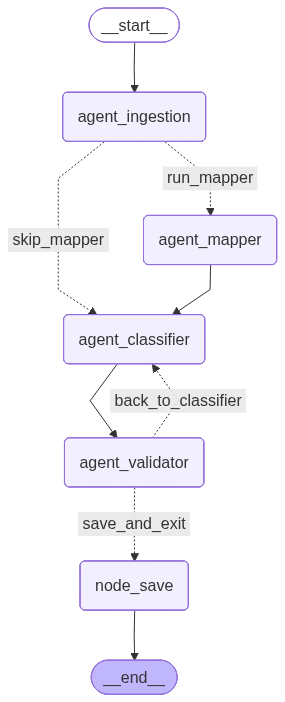
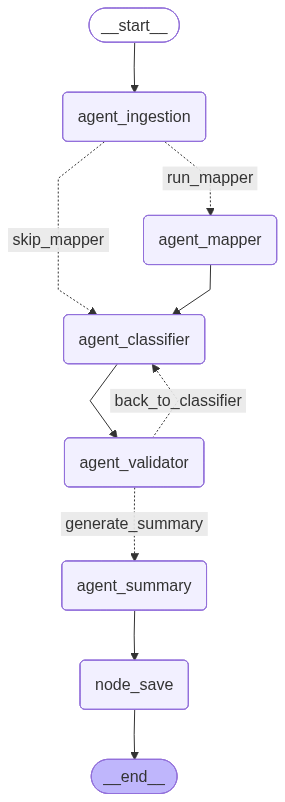
(feat): Added a summary agent that provides overall sumamry for the user plan

diff --git a/agents/summary_agent.py b/agents/summary_agent.py
@@ -1,0 +1,83 @@
+import os
+from anthropic import Anthropic
+from state.graph_state import AgenticState
+
+def summary_agent_node(state: AgenticState):
+    print(f"\n=== [Agent 5: Summary Agent] Generating Comprehensive Plan Summary ===")
+    client = Anthropic(api_key=os.getenv("CLAUDE_API_KEY"))
+    
+    valid_pages = state.get("valid_pages", [])
+    if not valid_pages:
+        print("No valid blueprint images found to summarize.")
+        return {"plan_summary": "No blueprint images available for summary."}
+    
+    page_summaries = []
+    
+    prompt = """You are an expert architectural plan reviewer and construction estimator. 
+Analyze this blueprint page/drawing image and write an exhaustive, highly detailed technical description of every single element, note, and layout configuration visible.
+
+Provide a meticulous breakdown covering:
+1. Drawing Type & Orientation: (e.g., Floor Plan, Foundation Plan, Exterior Elevation, Framing Details) along with scale/compass indicators if visible.
+2. Spatial Layout & Dimensions: Room-by-room walkthrough, structural spans, exact dimensions, thickness of walls, clearance heights, and circulation pathways.
+3. Features & Openings: Comprehensive description of doors, windows, millwork, built-ins, partitions, and specialized assemblies.
+4. General Notes & Callouts: Incorporate text schedules, legend items, or structural callouts present directly on the sheet.
+
+🚨 CRITICAL CONSTRAINT: DO NOT assign, use, or reference any CSI MasterFormat division codes (e.g., '09 30 13' or 'Division 09'). Focus entirely on a narrative, physical, and architectural transcription of what is shown.
+
+Write your response in clear, professional, un-abbreviated plain text paragraphs with clear headings."""
+
+    for page in valid_pages:
+        page_no = page["page_no"]
+        print(f"Extracting all detailed plan data from sheet {page_no}...")
+        try:
+            response = client.messages.create(
+                model="claude-sonnet-4-6",
+                max_tokens=3500, 
+                temperature=0.1,  
+                system="You are a precise architectural description engine. Write comprehensive, fully expanded technical descriptions of construction drawings. Do not summarize or skip small details—write out everything observed. Start directly with your findings.",
+                messages=[
+                    {
+                        "role": "user",
+                        "content": [
+                            {
+                                "type": "image",
+                                "source": {
+                                    "type": "base64",
+                                    "media_type": "image/png",
+                                    "data": page['image_b64']
+                                }
+                            },
+                            {
+                                "type": "text",
+                                "text": prompt
+                            }
+                        ],
+                    }
+                ],
+            )
+            
+            page_text = response.content[0].text.strip()
+            page_header = f"=================================================================\n" \
+                          f" SHEET / PAGE {page_no} DETAILED REPORT\n" \
+                          f"=================================================================\n"
+            page_summaries.append(f"{page_header}{page_text}")
+            
+        except Exception as e:
+            print(f"[Summary Agent Error] Failed to process page {page_no}: {e}")
+            page_summaries.append(f"SHEET / PAGE {page_no}\n[Error compiling data for this blueprint page]")
+
+    final_text_content = "\n\n\n".join(page_summaries)
+    
+    pdf_name = os.path.splitext(os.path.basename(state["pdf_path"]))[0]
+    txt_output_path = os.path.join(state["output_base"], "data", f"{pdf_name}_plan_summary.txt")
+    os.makedirs(os.path.dirname(txt_output_path), exist_ok=True)
+    
+    with open(txt_output_path, "w", encoding="utf-8") as f:
+        f.write(f"DETAILED CONSTRUCTION PLAN SUMMARY REPORT\n")
+        f.write(f"Source Document: {pdf_name}.pdf\n")
+        f.write(f"=================================================================\n\n")
+        f.write(final_text_content)
+        
+    print(f"Exhaustive architectural summary stored in text file: {txt_output_path}")
+    
+    return {"plan_summary": final_text_content}

diff --git a/main.py b/main.py
@@ -11,6 +11,7 @@ from agents.ingestion_agent import ingestion_agent_node
 from agents.blueprint_mapper import blueprint_mapper_node
 from agents.csi_classifier import csi_classifier_node
 from agents.validator_agent import validator_agent_node
+from agents.summary_agent import summary_agent_node
 
 load_dotenv(override=True)
 
@@ -34,7 +35,9 @@ def evaluation_router(state: AgenticState) -> Literal["back_to_classifier", "sav
     if state.get("error_log") and state.get("retry_count", 0) < 3:
         print(f"Routing back to Agent 3 (CSI Classifier) for correction attempt #{state.get('retry_count', 0)}")
         return "back_to_classifier"
-    return "save_and_exit"
+    
+    print("Validation passed. Routing to Agent 5 (Summary Agent)...")
+    return "generate_summary"
 
 
 def save_results_node(state: AgenticState):
@@ -57,6 +60,7 @@ workflow.add_node("agent_ingestion", ingestion_agent_node)
 workflow.add_node("agent_mapper", blueprint_mapper_node)
 workflow.add_node("agent_classifier", csi_classifier_node)
 workflow.add_node("agent_validator", validator_agent_node)
+workflow.add_node("agent_summary", summary_agent_node)
 workflow.add_node("node_save", save_results_node)
 
 workflow.set_entry_point("agent_ingestion")
@@ -78,9 +82,10 @@ workflow.add_conditional_edges(
     evaluation_router,
     {
         "back_to_classifier": "agent_classifier",
-        "save_and_exit": "node_save"
+        "generate_summary": "agent_summary"
     }
 )
+workflow.add_edge("agent_summary", "node_save")
 workflow.add_edge("node_save", END)
 
 app = workflow.compile()

diff --git a/agents/ingestion_agent.py b/agents/ingestion_agent.py
@@ -11,6 +11,7 @@ def ingestion_agent_node(state: AgenticState):
     
     valid_pages = pdf_to_image(state["pdf_path"], state["output_base"])
     results = []
+    page_summaries = [] 
     
     prompt = """Your role is a professional construction material estimator. Analyze this architectural drawing and extract building materials used in CIVIL ENGINEERING and technical specs.
 

diff --git a/state/graph_state.py b/state/graph_state.py
@@ -10,3 +10,4 @@ class AgenticState(TypedDict):
     final_specifications: Dict[str, Any]      
     retry_count: int                          
     error_log: List[str]
+    plan_summary: str
